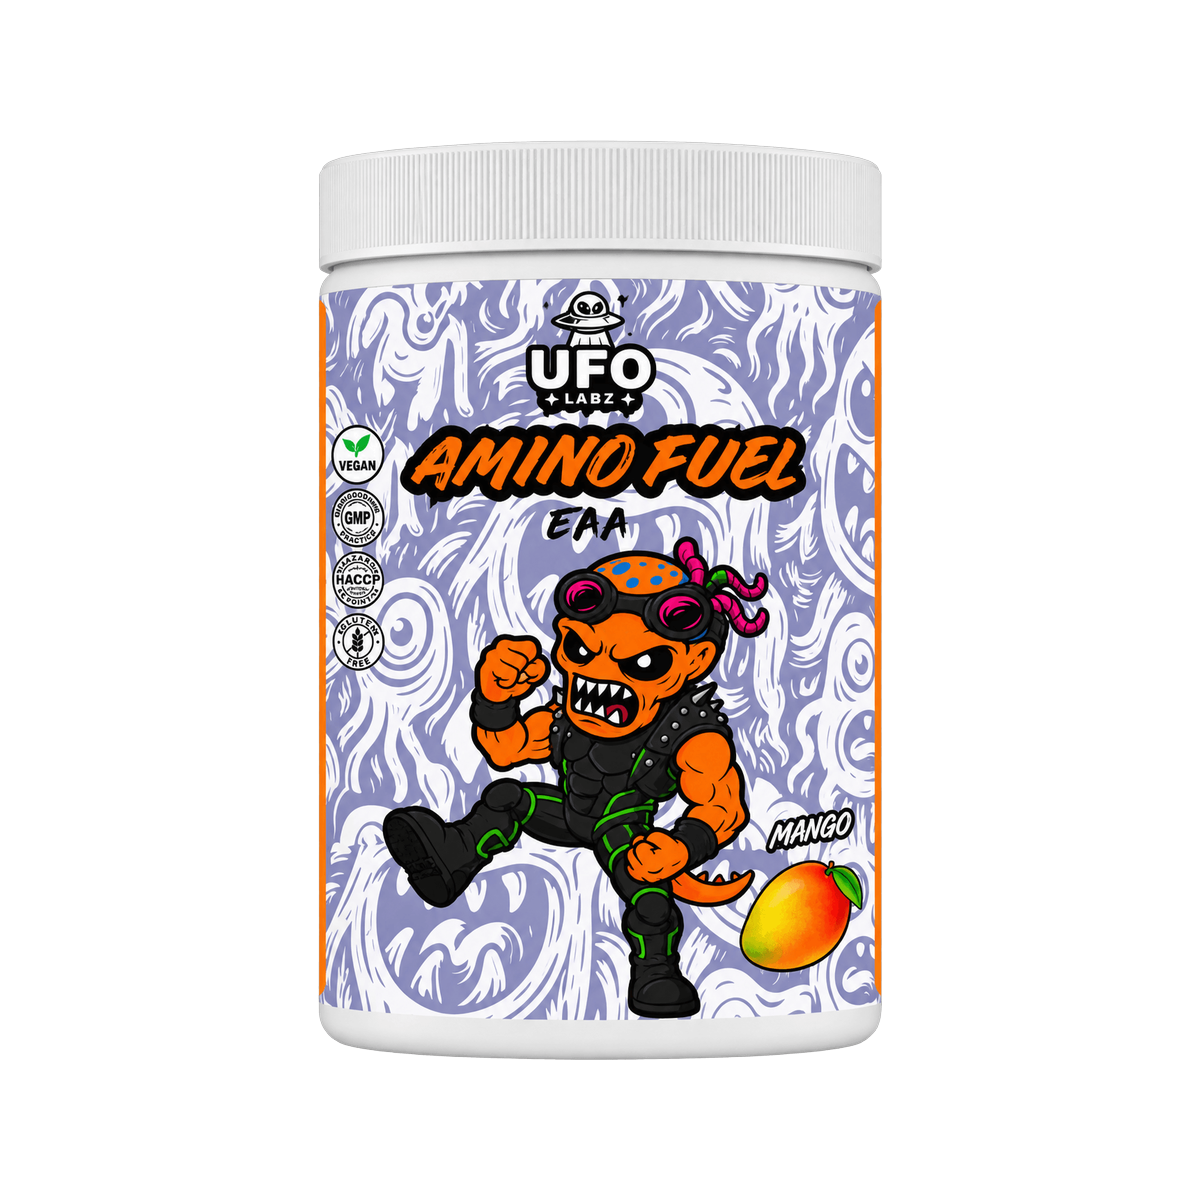
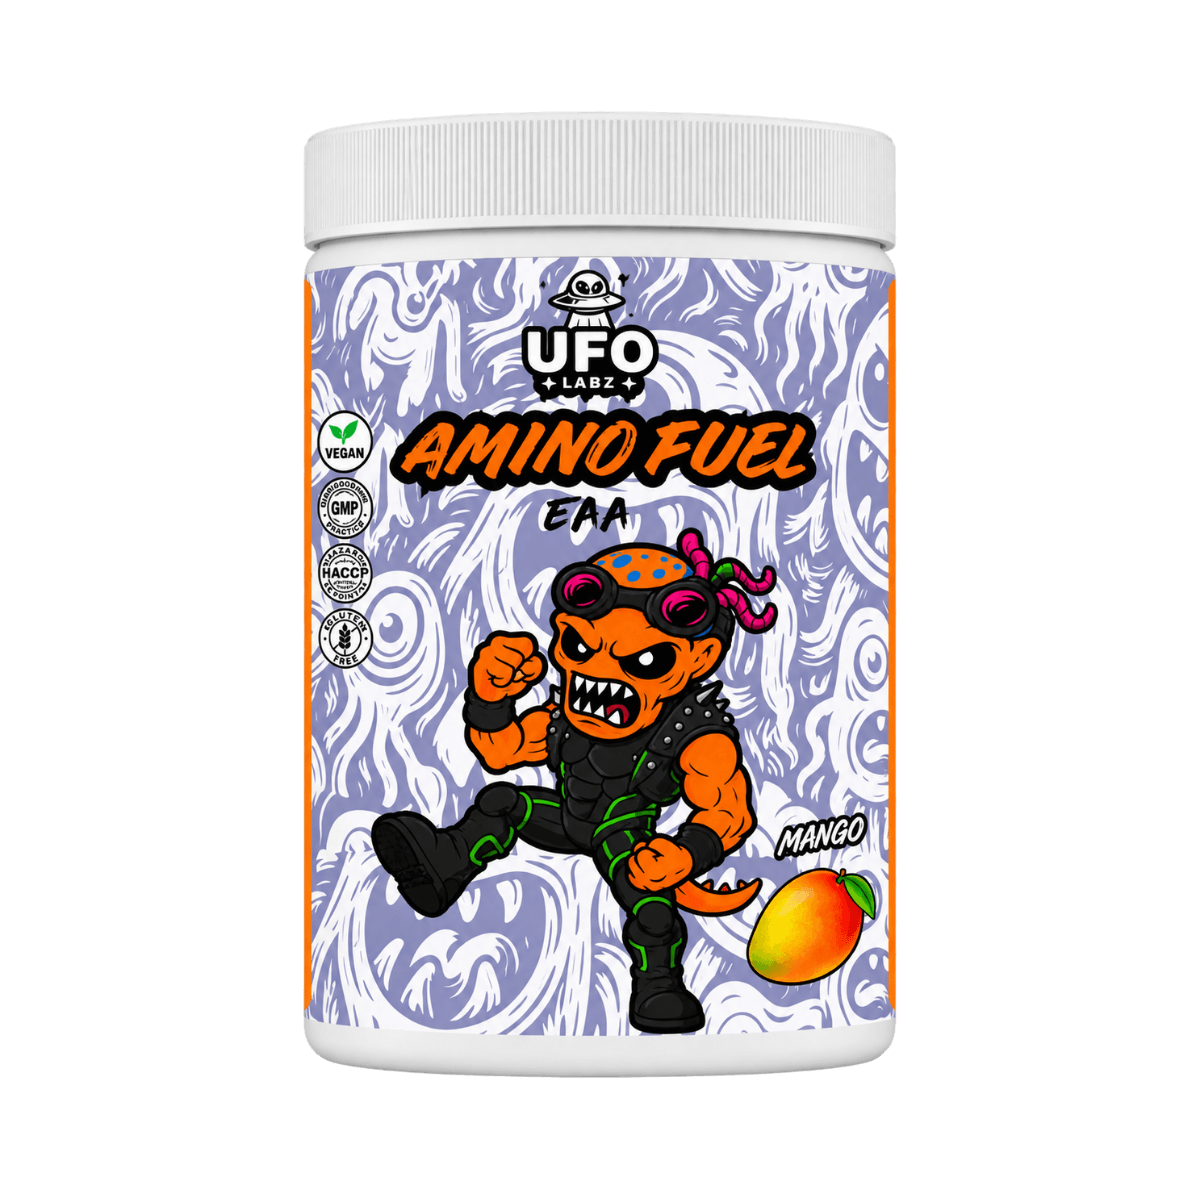
feat(product): update all product images with new correctly sized 3D renders

Changed region(s): [[0.2467, 0.0925, 0.7708, 0.925]]

diff --git a/components/home/ProductGrid.tsx b/components/home/ProductGrid.tsx
@@ -72,7 +72,7 @@ function ProductCard({ product }: { product: any }) {
             src={primary.url}
             alt={name}
             fill
-            className="object-contain p-2 sm:p-3 scale-[1.18] sm:scale-[1.14] md:scale-110 group-hover:scale-[1.24] transition-all duration-500"
+            className="object-contain p-2.5 sm:p-3.5 group-hover:scale-105 transition-all duration-500"
             sizes="(max-width: 640px) 50vw, (max-width: 1024px) 33vw, 25vw"
           />
         ) : (

diff --git a/components/product/SearchClient.tsx b/components/product/SearchClient.tsx
@@ -76,7 +76,7 @@ function SearchProductCard({
               src={image.url}
               alt={name}
               fill
-              className="object-contain p-2 sm:p-3 scale-[1.18] sm:scale-[1.14] md:scale-110 group-hover:scale-[1.24] transition-transform duration-500"
+              className="object-contain p-2.5 sm:p-3.5 group-hover:scale-105 transition-transform duration-500"
               sizes="(max-width: 640px) 50vw, 33vw"
             />
           ) : (
